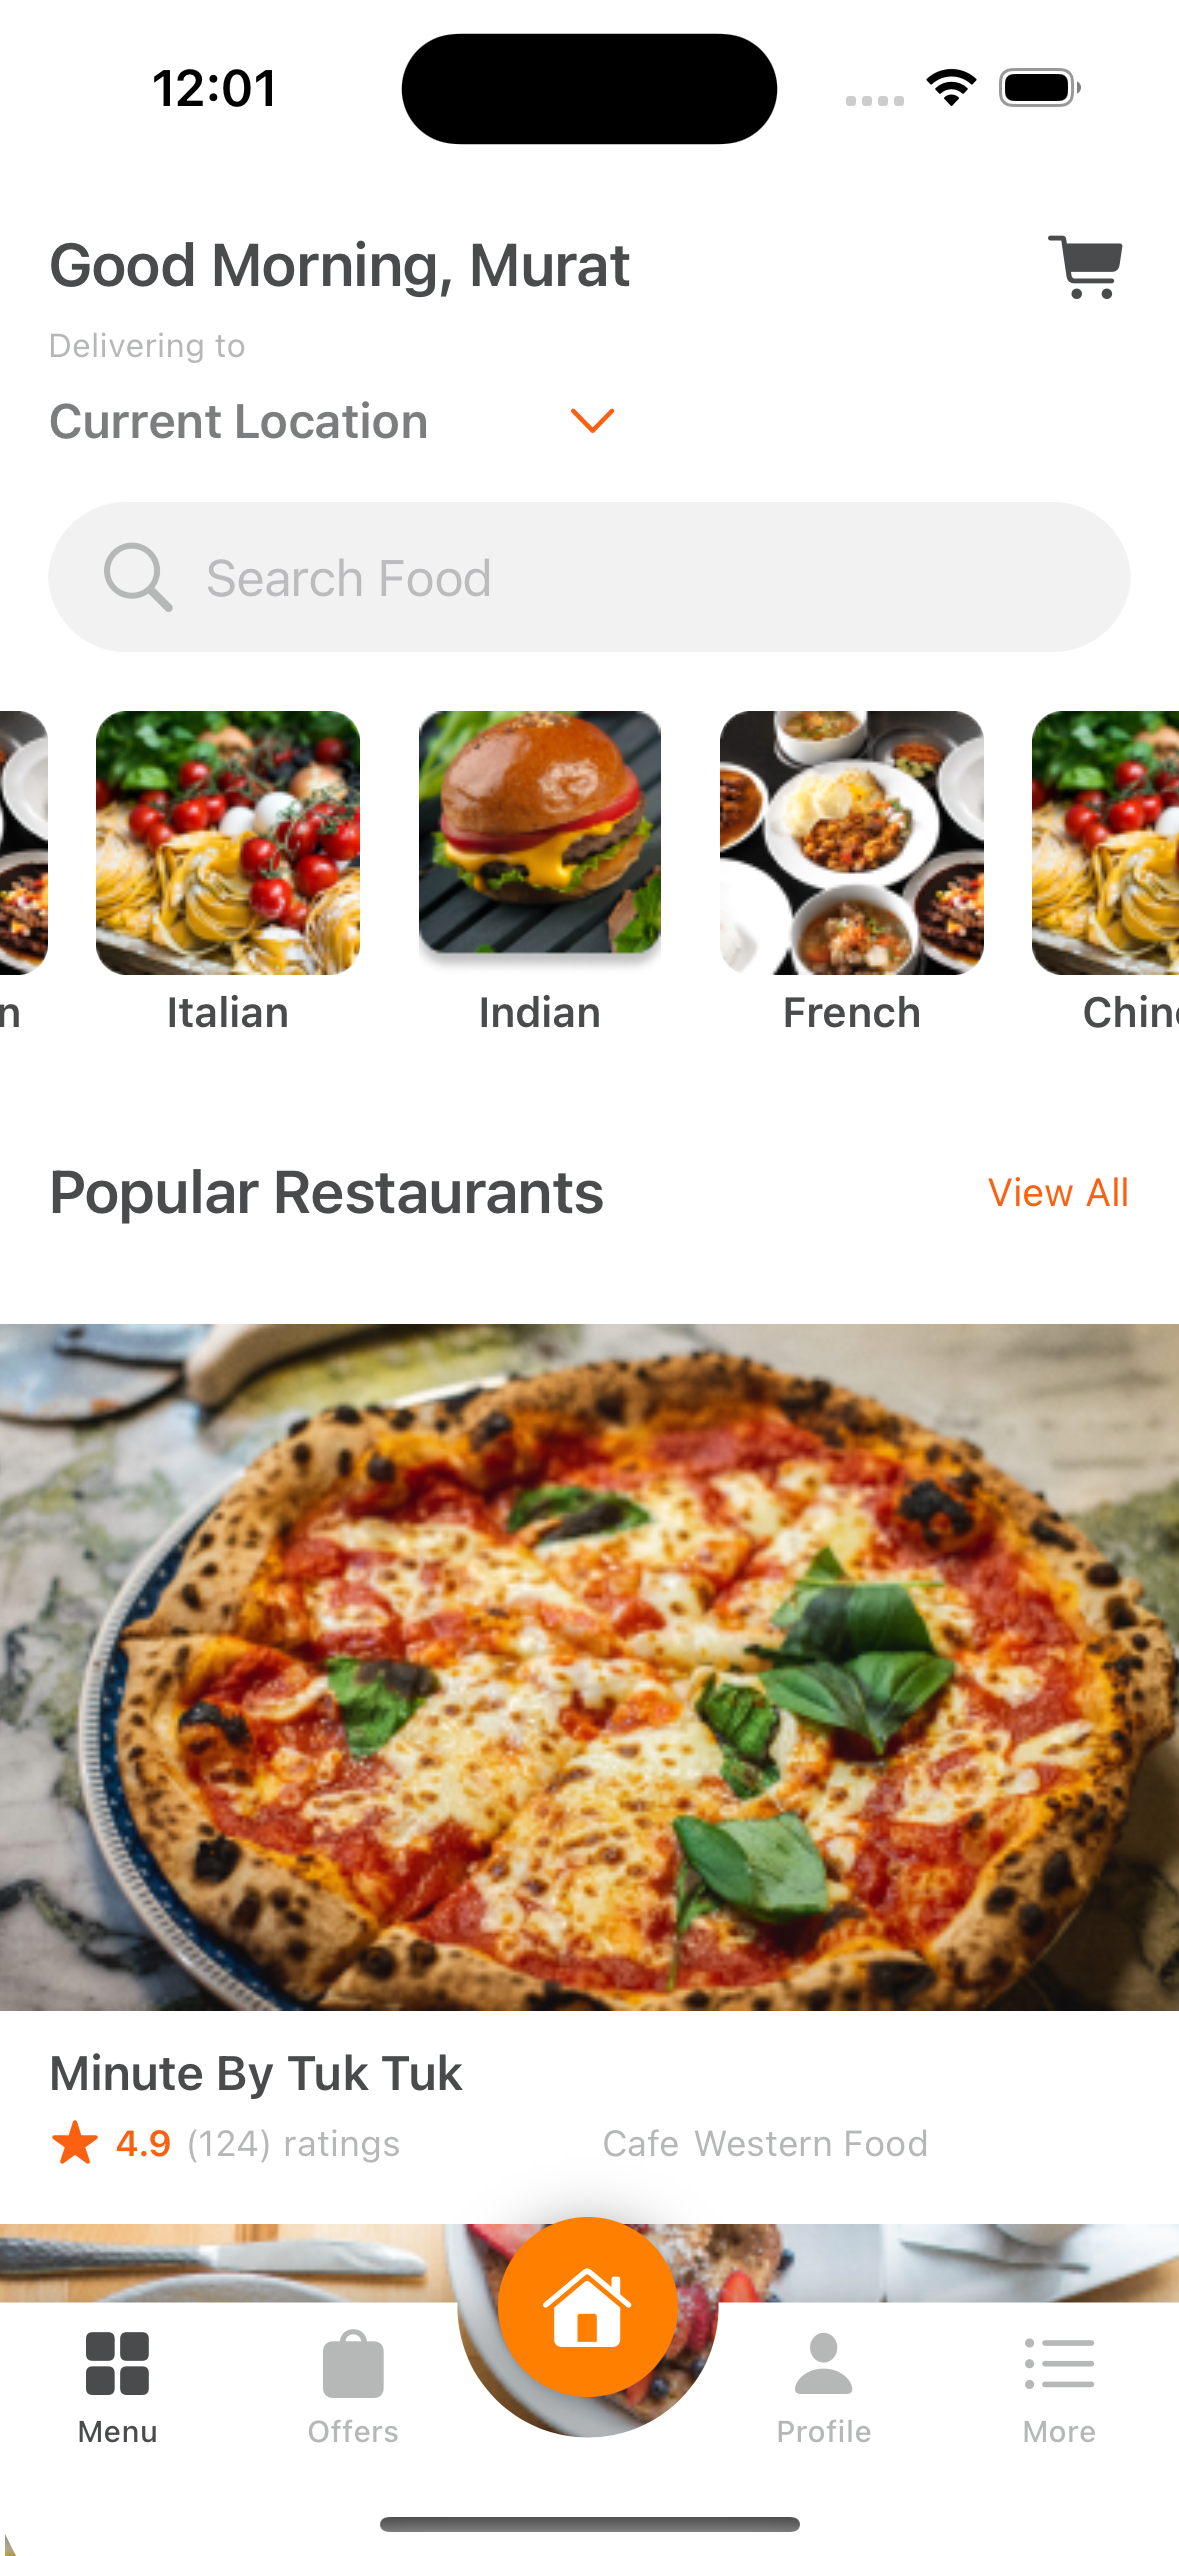
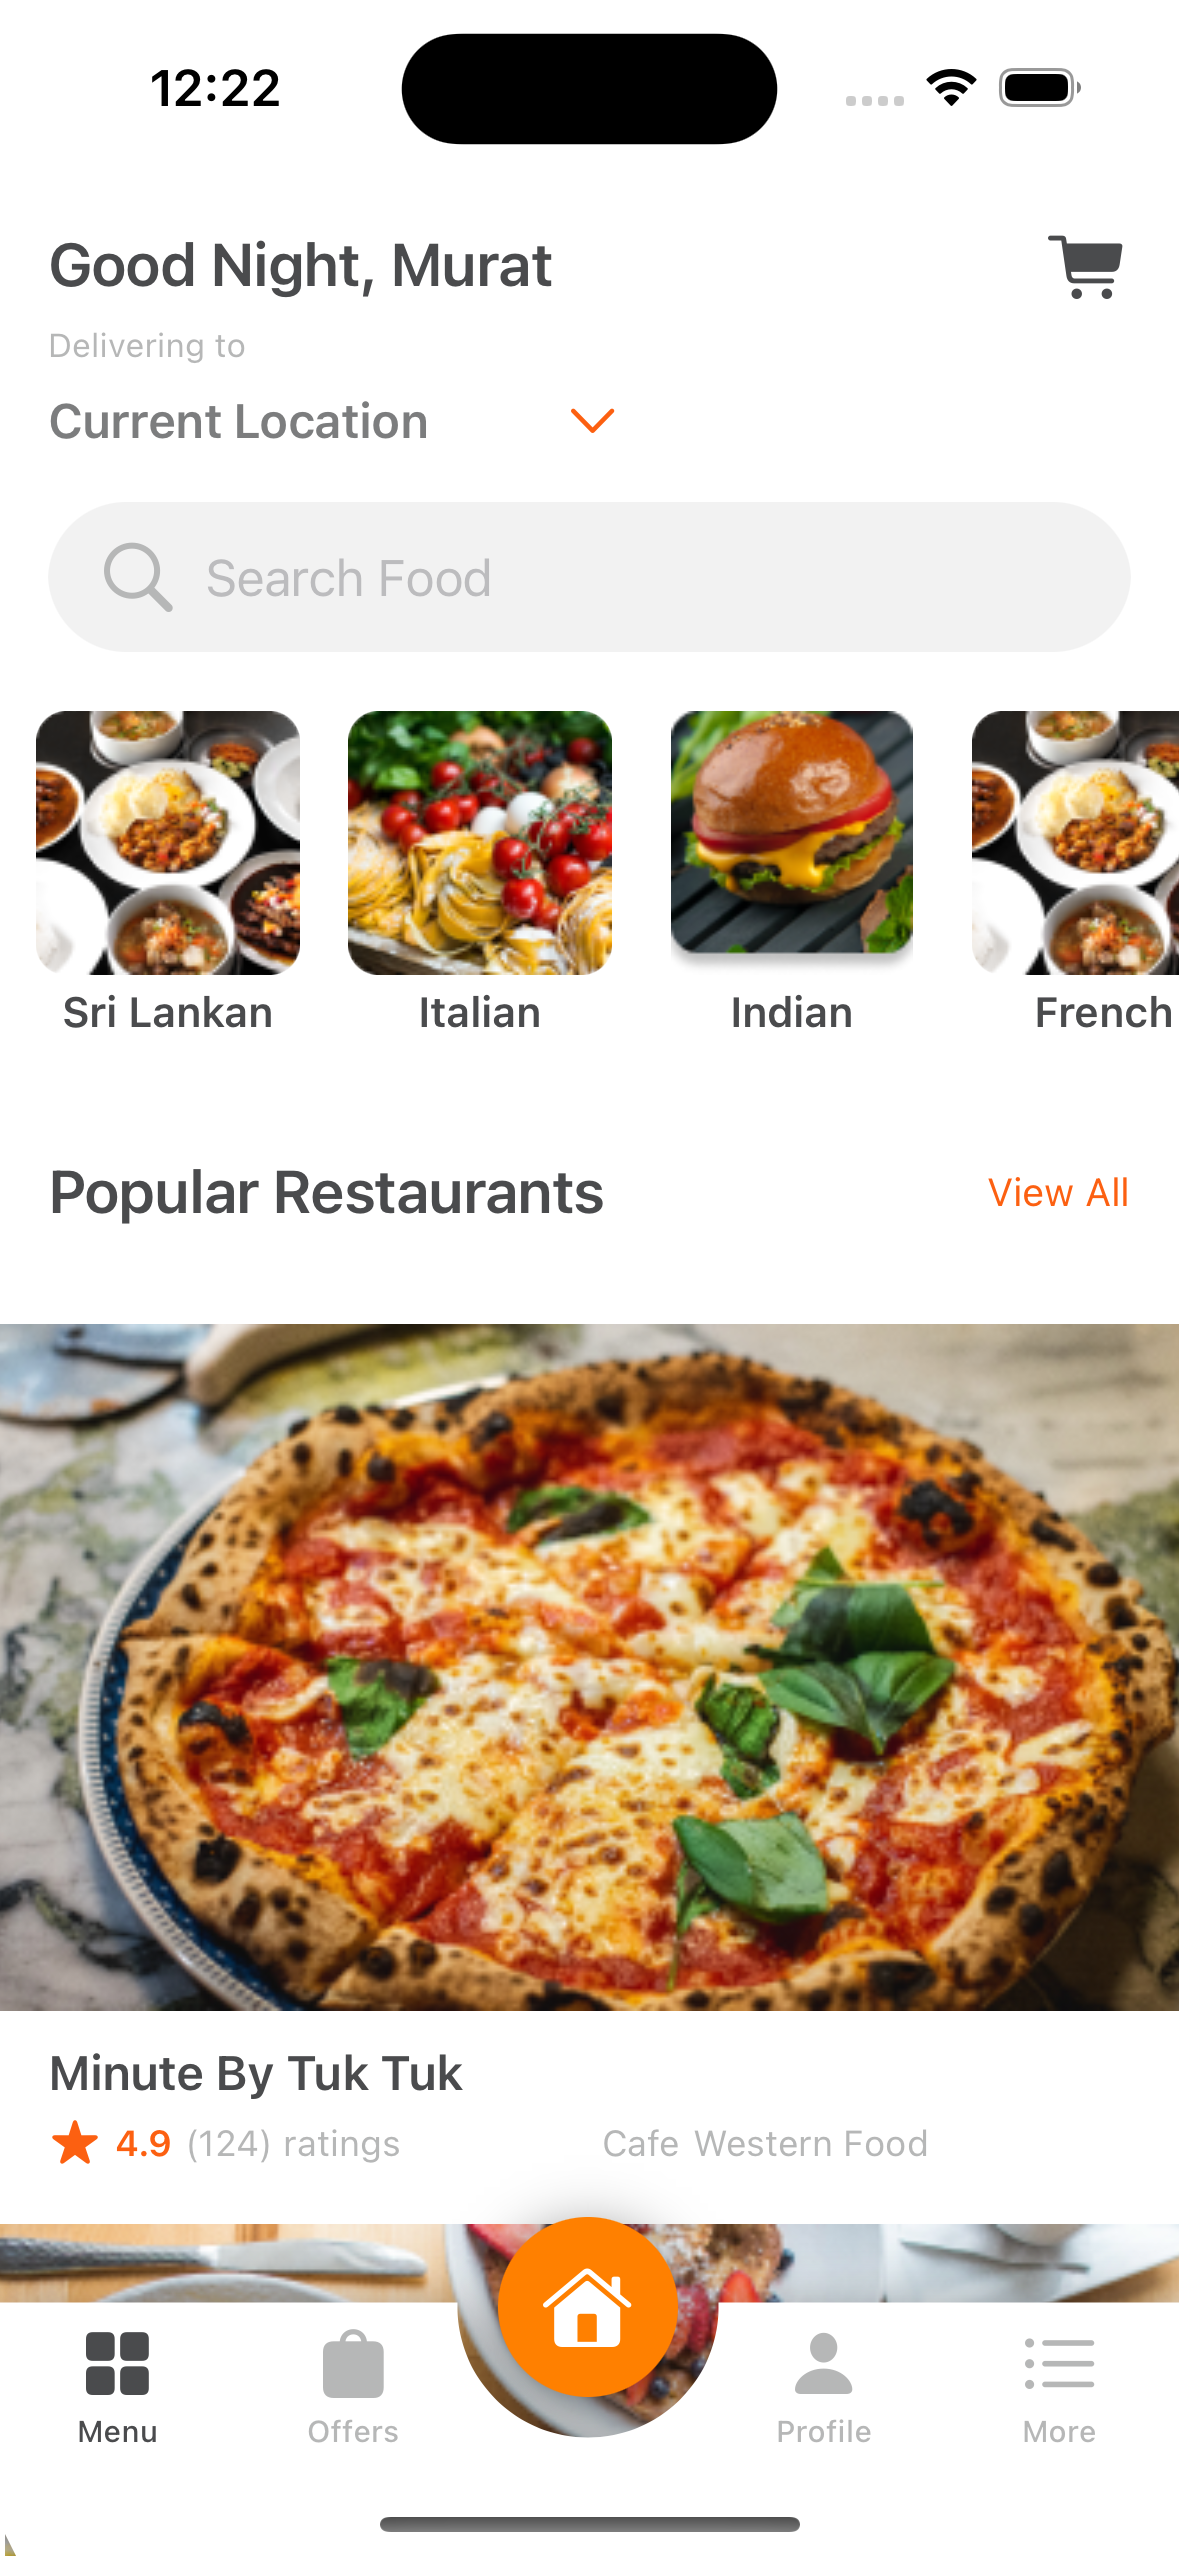
update images

Changed region(s): [[0.0, 0.2782, 1.0, 0.4018], [0.1832, 0.0927, 0.5496, 0.1236], [0.1832, 0.0309, 0.2443, 0.0618]]

diff --git a/FoodOrderApp/Helpers/Date+FoodOrder.swift b/FoodOrderApp/Helpers/Date+FoodOrder.swift
@@ -13,7 +13,7 @@ extension Date {
         let hour = calendar.component(.hour, from: self)
         
         switch hour {
-        case 0..<12:
+        case 3..<12:
             return "Good Morning"
         case 12..<17:
             return "Good Afternoon"
